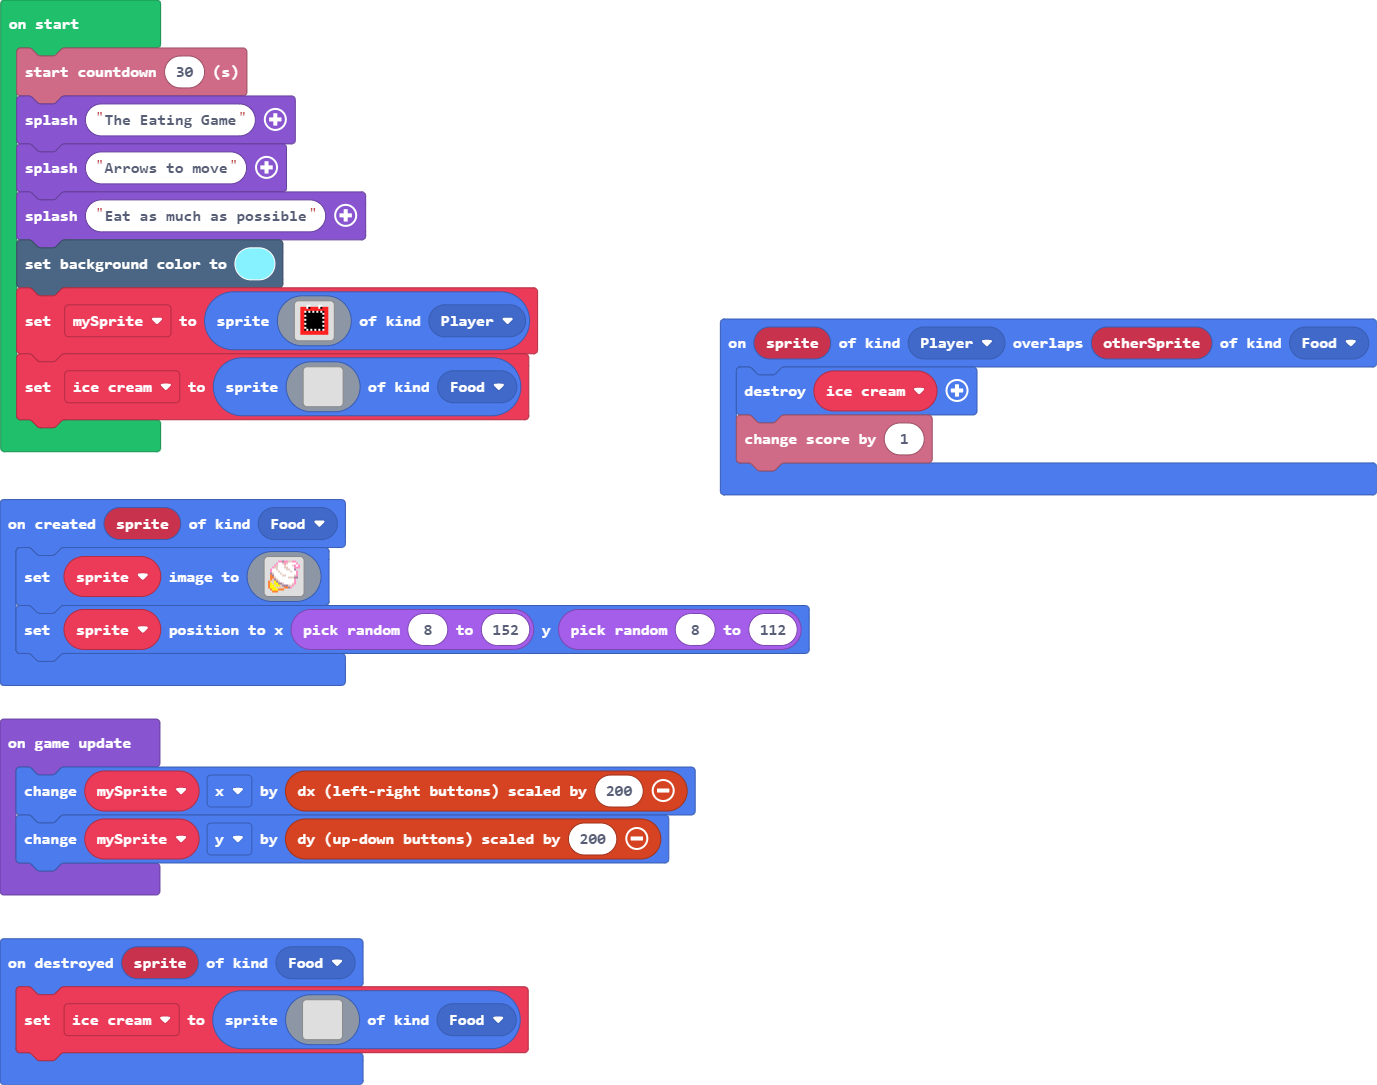
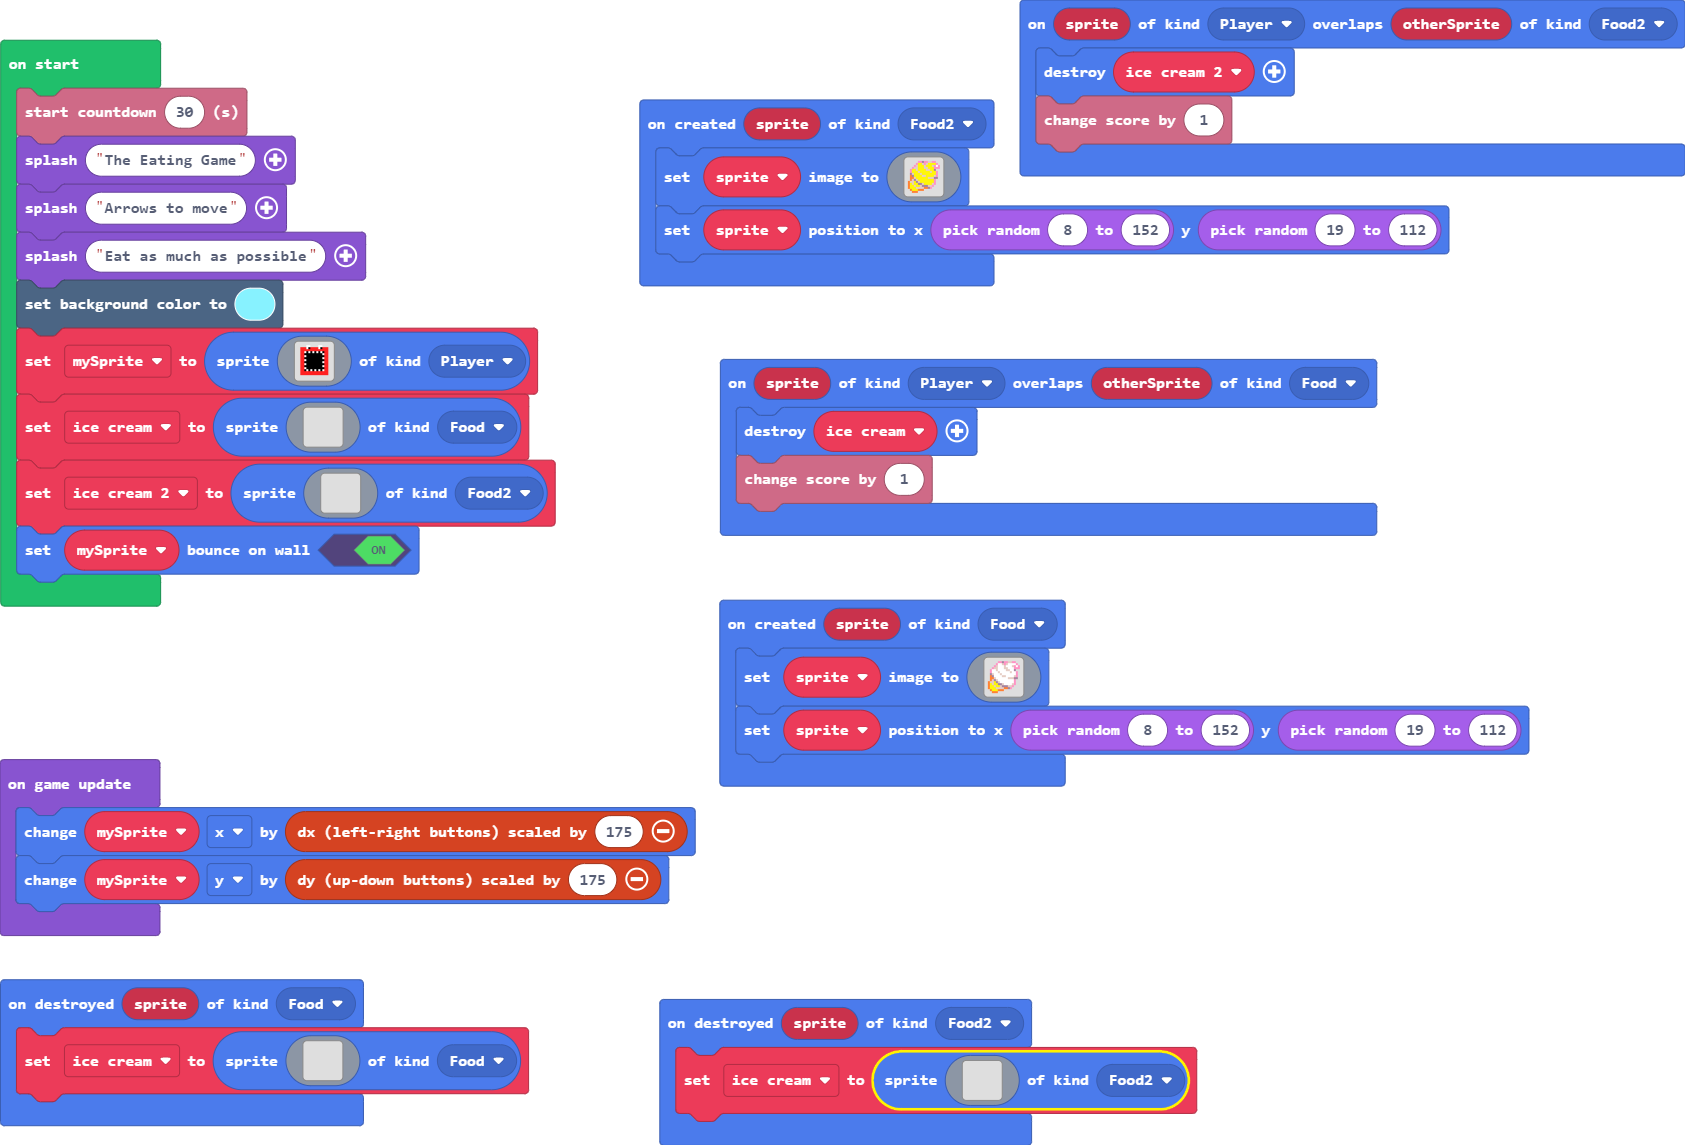
Update main.blocks, main.ts

diff --git a/main.ts b/main.ts
@@ -1,5 +1,6 @@
 namespace SpriteKind {
     export const follower = SpriteKind.create()
+    export const Food2 = SpriteKind.create()
 }
 sprites.onDestroyed(SpriteKind.Food, function (sprite) {
     ice_cream = sprites.create(img`
@@ -21,6 +22,27 @@ sprites.onDestroyed(SpriteKind.Food, function (sprite) {
         . . . . . . . . . . . . . . . . 
         `, SpriteKind.Food)
 })
+sprites.onCreated(SpriteKind.Food2, function (sprite) {
+    sprite.setImage(img`
+        . . . . . 3 3 b 3 3 d d 3 3 . . 
+        . . . . 3 5 5 d 3 d 5 5 5 5 3 . 
+        . . . 3 d 5 5 5 d 5 5 5 d 3 1 3 
+        . . 3 d d 5 5 5 d d 5 5 5 3 3 3 
+        . 3 5 5 d 5 5 5 5 d d 5 5 b . . 
+        . 3 5 5 5 d 5 5 5 5 5 d 5 5 3 . 
+        . b d 5 5 5 d 5 5 5 5 5 5 5 3 . 
+        . 4 b 5 5 5 5 d d 5 5 5 5 d 3 . 
+        . 4 4 d 5 5 5 5 5 5 d d d b b . 
+        . 4 d b d 5 5 5 5 5 5 5 5 3 . . 
+        4 d d 5 b d 5 5 5 5 5 5 5 3 . . 
+        4 5 d 5 5 b b d 5 5 5 5 d 3 . . 
+        4 5 5 d 5 5 d b b b d d 3 . . . 
+        4 5 5 5 d d d d 4 4 b 3 . . . . 
+        . 4 5 5 5 4 4 4 . . . . . . . . 
+        . . 4 4 4 . . . . . . . . . . . 
+        `)
+    sprite.setPosition(randint(8, 152), randint(19, 112))
+})
 sprites.onCreated(SpriteKind.Food, function (sprite) {
     sprite.setImage(img`
         . . . . . 3 3 b 3 3 d d 3 3 . . 
@@ -40,12 +62,37 @@ sprites.onCreated(SpriteKind.Food, function (sprite) {
         . 4 5 5 5 4 4 4 . . . . . . . . 
         . . 4 4 4 . . . . . . . . . . . 
         `)
-    sprite.setPosition(randint(8, 152), randint(8, 112))
+    sprite.setPosition(randint(8, 152), randint(19, 112))
 })
 sprites.onOverlap(SpriteKind.Player, SpriteKind.Food, function (sprite, otherSprite) {
     ice_cream.destroy()
     info.changeScoreBy(1)
 })
+sprites.onDestroyed(SpriteKind.Food2, function (sprite) {
+    ice_cream = sprites.create(img`
+        . . . . . . . . . . . . . . . . 
+        . . . . . . . . . . . . . . . . 
+        . . . . . . . . . . . . . . . . 
+        . . . . . . . . . . . . . . . . 
+        . . . . . . . . . . . . . . . . 
+        . . . . . . . . . . . . . . . . 
+        . . . . . . . . . . . . . . . . 
+        . . . . . . . . . . . . . . . . 
+        . . . . . . . . . . . . . . . . 
+        . . . . . . . . . . . . . . . . 
+        . . . . . . . . . . . . . . . . 
+        . . . . . . . . . . . . . . . . 
+        . . . . . . . . . . . . . . . . 
+        . . . . . . . . . . . . . . . . 
+        . . . . . . . . . . . . . . . . 
+        . . . . . . . . . . . . . . . . 
+        `, SpriteKind.Food2)
+})
+sprites.onOverlap(SpriteKind.Player, SpriteKind.Food2, function (sprite, otherSprite) {
+    ice_cream_2.destroy()
+    info.changeScoreBy(1)
+})
+let ice_cream_2: Sprite = null
 let ice_cream: Sprite = null
 info.startCountdown(30)
 game.splash("The Eating Game")
@@ -88,7 +135,26 @@ ice_cream = sprites.create(img`
     . . . . . . . . . . . . . . . . 
     . . . . . . . . . . . . . . . . 
     `, SpriteKind.Food)
+ice_cream_2 = sprites.create(img`
+    . . . . . . . . . . . . . . . . 
+    . . . . . . . . . . . . . . . . 
+    . . . . . . . . . . . . . . . . 
+    . . . . . . . . . . . . . . . . 
+    . . . . . . . . . . . . . . . . 
+    . . . . . . . . . . . . . . . . 
+    . . . . . . . . . . . . . . . . 
+    . . . . . . . . . . . . . . . . 
+    . . . . . . . . . . . . . . . . 
+    . . . . . . . . . . . . . . . . 
+    . . . . . . . . . . . . . . . . 
+    . . . . . . . . . . . . . . . . 
+    . . . . . . . . . . . . . . . . 
+    . . . . . . . . . . . . . . . . 
+    . . . . . . . . . . . . . . . . 
+    . . . . . . . . . . . . . . . . 
+    `, SpriteKind.Food2)
+mySprite.setBounceOnWall(true)
 game.onUpdate(function () {
-    mySprite.x += controller.dx(200)
-    mySprite.y += controller.dy(200)
+    mySprite.x += controller.dx(175)
+    mySprite.y += controller.dy(175)
 })
